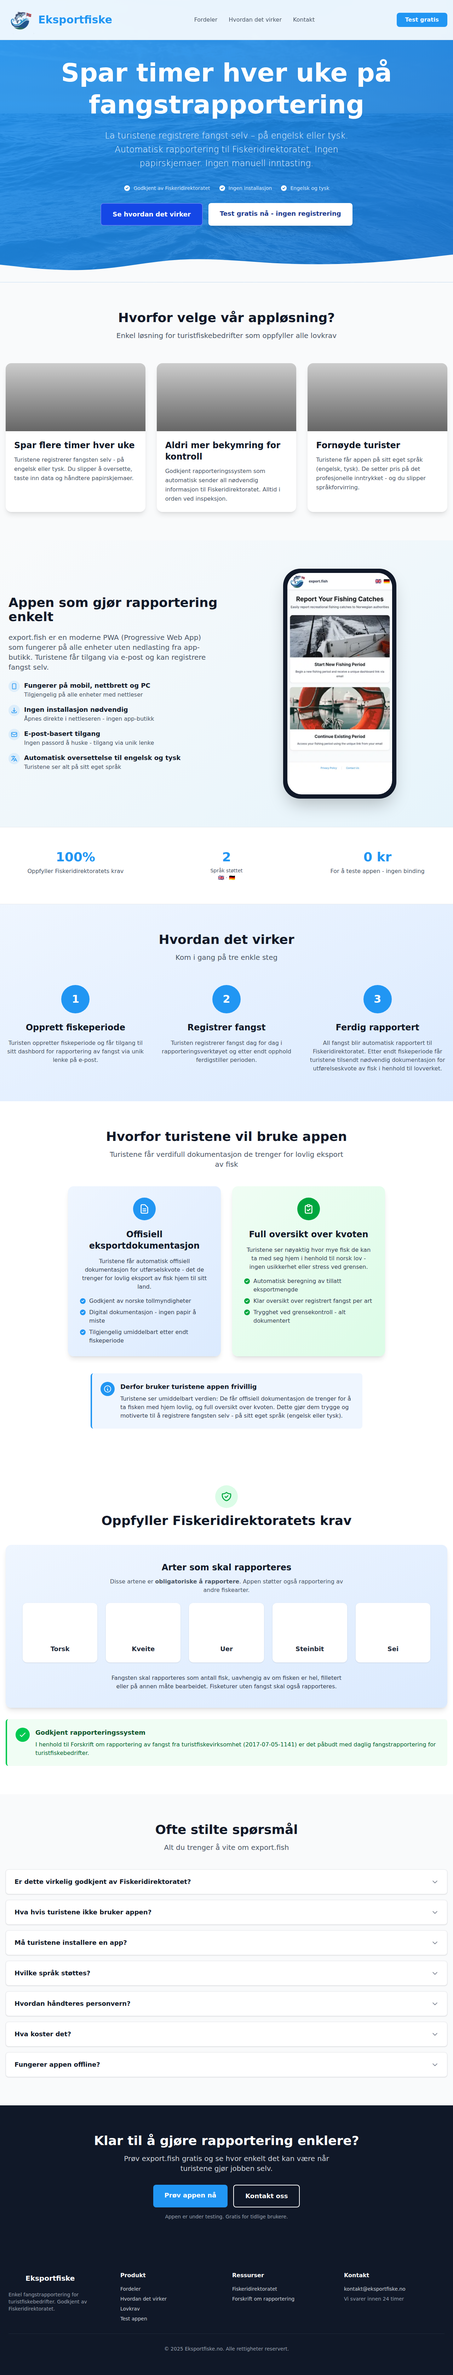
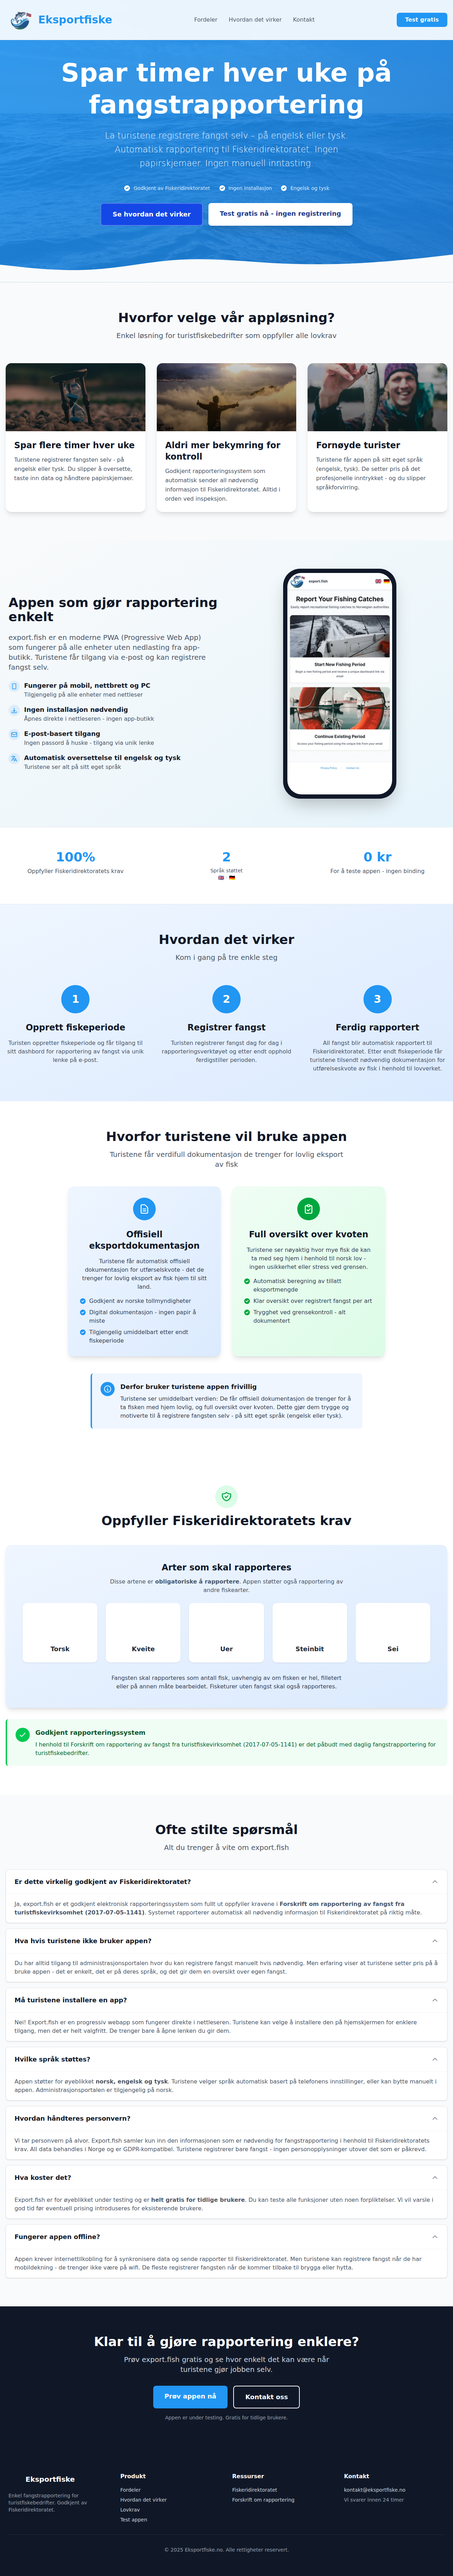
Expand all FAQ items in visual regression tests
- Open all <details> elements before taking screenshots
- Ensures FAQ content is visible in visual comparisons
- Applies to desktop, mobile, and tablet viewports

diff --git a/e2e/visual-regression.spec.ts b/e2e/visual-regression.spec.ts
@@ -25,6 +25,13 @@ test.describe('Visual Regression - Full Page Screenshots @visual', () => {
     // Wait for images to load
     await page.waitForSelector('img', { state: 'visible' });
 
+    // Expand all FAQ items to show full content in screenshots
+    await page.evaluate(() => {
+      document.querySelectorAll('details').forEach(details => {
+        details.open = true;
+      });
+    });
+
     await captureScreenshot(page, 'desktop-full-page');
   });
 
@@ -37,6 +44,13 @@ test.describe('Visual Regression - Full Page Screenshots @visual', () => {
     // Wait for images to load
     await page.waitForSelector('img', { state: 'visible' });
 
+    // Expand all FAQ items to show full content in screenshots
+    await page.evaluate(() => {
+      document.querySelectorAll('details').forEach(details => {
+        details.open = true;
+      });
+    });
+
     await captureScreenshot(page, 'mobile-full-page');
   });
 
@@ -48,6 +62,13 @@ test.describe('Visual Regression - Full Page Screenshots @visual', () => {
 
     // Wait for images to load
     await page.waitForSelector('img', { state: 'visible' });
+
+    // Expand all FAQ items to show full content in screenshots
+    await page.evaluate(() => {
+      document.querySelectorAll('details').forEach(details => {
+        details.open = true;
+      });
+    });
 
     await captureScreenshot(page, 'tablet-full-page');
   });
